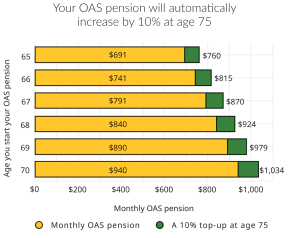
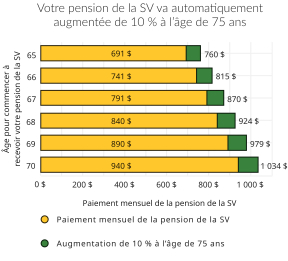
feat: added fr when to start page

diff --git a/frontend/src/pages/learn/deciding-when-to-start-your-public-pensions.tsx b/frontend/src/pages/learn/deciding-when-to-start-your-public-pensions.tsx
@@ -36,9 +36,9 @@ const DecidingWhenToCollectPublicPensions: FC = () => {
         secondary: t('learn-more.main-sources-of-retirment-income.description'),
       },
       {
-        href: '/learn/going-from-work-to-retirement',
-        primary: t('learn-more.going-from-work-to-retirement.header'),
-        secondary: t('learn-more.going-from-work-to-retirement.description'),
+        href: '/learn/rules-of-thumb-for-public-pensions',
+        primary: t('learn-more.rules-of-thumb-for-public-pensions.header'),
+        secondary: t('learn-more.rules-of-thumb-for-public-pensions.description'),
       },
       {
         href: '/learn/learn/case-studies/fred',
@@ -80,31 +80,39 @@ const DecidingWhenToCollectPublicPensions: FC = () => {
         <List disablePadding>
           {[
             {
-              primary: t('key-takeaways.highest-monthly-amount'),
-              secondary: t('key-takeaways.start-collecting'),
+              primary: 'key-takeaways.highest-monthly-amount',
+              secondary: 'key-takeaways.start-collecting',
             },
             {
-              primary: t('key-takeaways.payment-increase'),
-              secondary: t('key-takeaways.no-benefit'),
+              primary: 'key-takeaways.payment-increase',
+              secondary: 'key-takeaways.no-benefit',
             },
             {
-              primary: t('key-takeaways.people-who-qualify'),
-              secondary: t('key-takeaways.if-you-qualify'),
+              primary: 'key-takeaways.people-who-qualify',
+              secondary: 'key-takeaways.if-you-qualify',
             },
             {
-              primary: t('key-takeaways.more-than-double'),
-              secondary: t('key-takeaways.pensions-adjusted'),
+              primary: 'key-takeaways.more-than-double',
+              secondary: 'key-takeaways.pensions-adjusted',
             },
             {
-              primary: t('key-takeaways.planning-retirement'),
-              secondary: t('key-takeaways.common-law'),
+              primary: 'key-takeaways.planning-retirement',
+              secondary: 'key-takeaways.common-law',
             },
           ].map(({ primary, secondary }) => (
             <ListItem key={primary} className="border-b">
               <ListItemText
-                primary={primary}
+                primary={t(primary)}
                 primaryTypographyProps={{ className: 'font-medium text-xl font-display my-2' }}
-                secondary={secondary}
+                secondary={
+                  <Trans
+                    ns="learn/deciding-when-to-start-your-public-pensions"
+                    i18nKey={secondary}
+                    components={{ a1: <MuiLink href={t(secondary+'-a1')} />, a2: <MuiLink href={t(secondary+'-a2')} />}}
+                  >
+                    {t(secondary)}
+                  </Trans>
+                }
                 secondaryTypographyProps={{ className: 'text-base' }}
               />
             </ListItem>
@@ -226,6 +234,7 @@ const DecidingWhenToCollectPublicPensions: FC = () => {
             components={{ a1: <MuiLink href={t('cpp-pension.a1')} /> }}
           />
         </p>
+        <p>{t('cpp-pension.p2')}</p>
 
         <AlertCard type="tip">
           <Trans ns="learn/deciding-when-to-start-your-public-pensions" i18nKey="cpp-pension.smart-tip" />
@@ -237,7 +246,7 @@ const DecidingWhenToCollectPublicPensions: FC = () => {
           height={519}
           className="mt-2 w-full"
         />
-        <p className="mt-2 rounded-lg bg-gray-surface p-4">{t('cpp-pension.p2')}</p>
+        <p className="mt-2 rounded-lg bg-gray-surface p-4">{t('cpp-pension.p3')}</p>
         <AccessibilityGraphContainer
           tableData={t('cpp-pension.accessibility', { returnObjects: true })}
           description={t('cpp-pension.description')}
@@ -248,7 +257,7 @@ const DecidingWhenToCollectPublicPensions: FC = () => {
         <p>
           <Trans
             ns="learn/deciding-when-to-start-your-public-pensions"
-            i18nKey="cpp-pension.p3"
+            i18nKey="cpp-pension.p4"
             components={{ a2: <Link className="underline" href="/learn/case-studies/fred" /> }}
           />
         </p>
